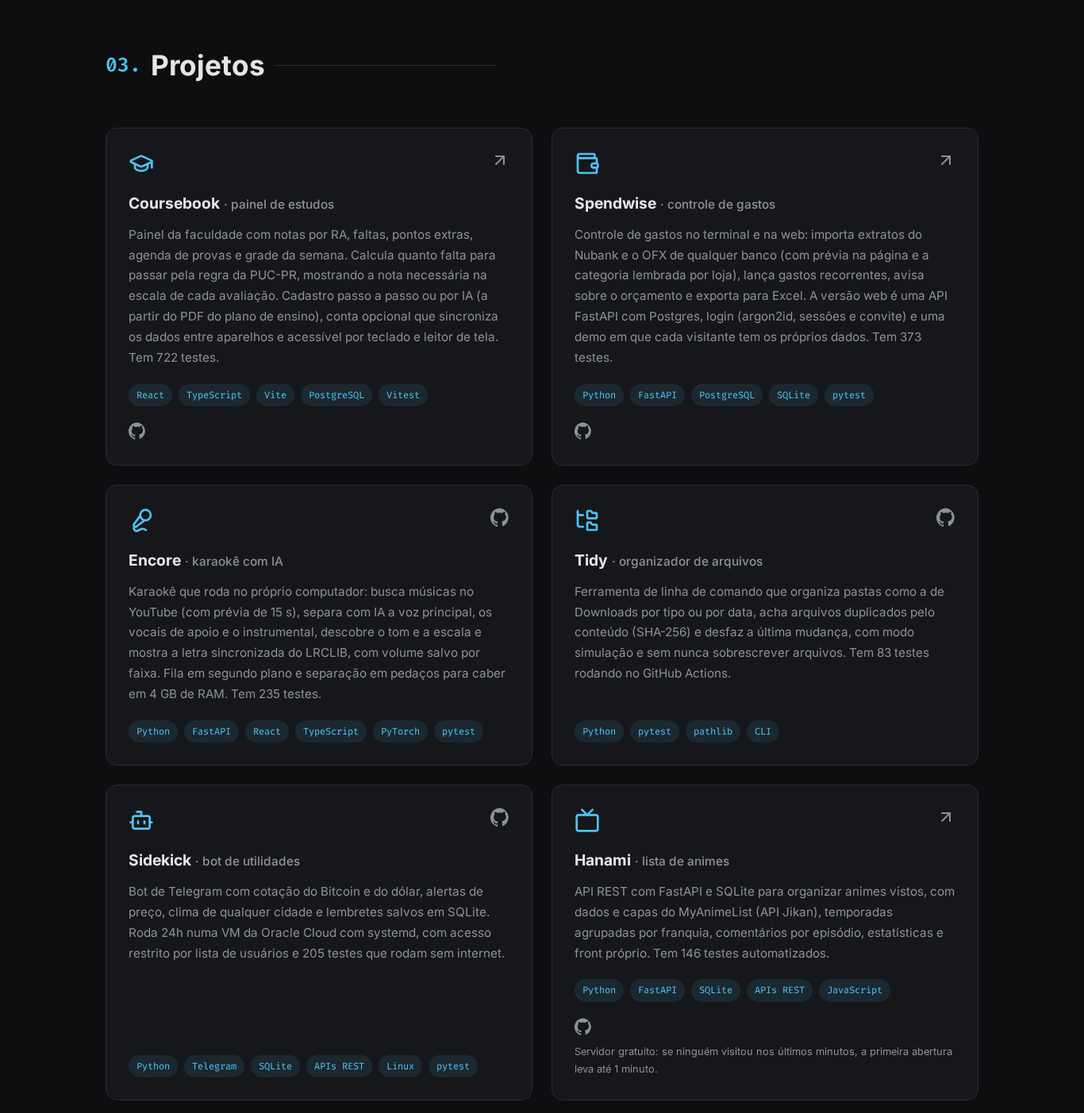
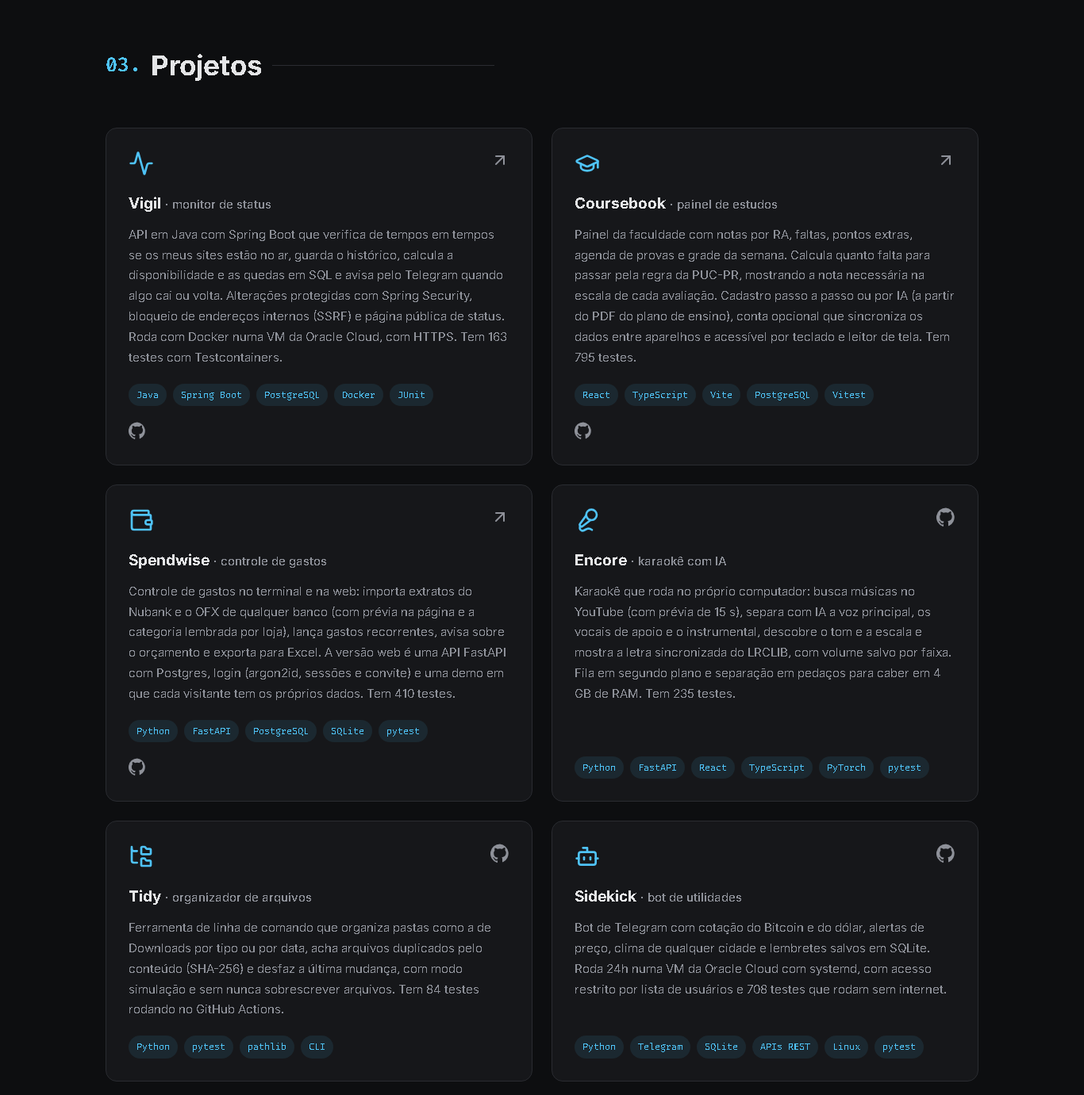
Adiciona o Vigil (Java, Spring Boot, Docker) e atualiza os números de testes

diff --git a/index.html b/index.html
@@ -173,6 +173,28 @@
         <div class="projects">
           <article class="project project--ao-vivo spot reveal">
             <div class="project__top">
+              <span class="project__icon"><svg xmlns="http://www.w3.org/2000/svg" viewBox="0 0 24 24" fill="none" stroke="currentColor" stroke-width="2" stroke-linecap="round" stroke-linejoin="round" class="icone" aria-hidden="true" focusable="false"><path d="M22 12h-2.48a2 2 0 0 0-1.93 1.46l-2.35 8.36a.25.25 0 0 1-.48 0L9.24 2.18a.25.25 0 0 0-.48 0l-2.35 8.36A2 2 0 0 1 4.49 12H2" /></svg></span>
+              <a class="project__link project__link--site" href="https://147-15-40-173.sslip.io" target="_blank" rel="noopener" aria-label="Ver a página de status do Vigil ao vivo">
+                <svg viewBox="0 0 24 24" aria-hidden="true"><path d="M7 7h10v10" /><path d="M7 17 17 7" /></svg>
+              </a>
+            </div>
+            <h3 class="project__title">Vigil <span class="project__apelido">· monitor de status</span></h3>
+            <p class="project__desc">
+              API em Java com Spring Boot que verifica de tempos em tempos se os meus sites estão no ar, guarda o
+              histórico, calcula a disponibilidade e as quedas em SQL e avisa pelo Telegram quando algo cai ou volta.
+              Alterações protegidas com Spring Security, bloqueio de endereços internos (SSRF) e página pública de
+              status. Roda com Docker numa VM da Oracle Cloud, com HTTPS. Tem 163 testes com Testcontainers.
+            </p>
+            <ul class="project__tags">
+              <li>Java</li><li>Spring Boot</li><li>PostgreSQL</li><li>Docker</li><li>JUnit</li>
+            </ul>
+            <a class="project__repo" href="https://github.com/Lakes777/vigil" target="_blank" rel="noopener" aria-label="Código do Vigil no GitHub">
+              <svg viewBox="0 0 24 24" aria-hidden="true"><path d="M12 .5a12 12 0 0 0-3.8 23.4c.6.1.8-.3.8-.6v-2c-3.3.7-4-1.6-4-1.6-.6-1.4-1.4-1.8-1.4-1.8-1-.7.1-.7.1-.7 1.2.1 1.8 1.2 1.8 1.2 1 1.8 2.8 1.3 3.5 1 0-.8.4-1.3.7-1.6-2.7-.3-5.5-1.3-5.5-6 0-1.2.5-2.3 1.3-3.1-.2-.4-.6-1.6 0-3.2 0 0 1-.3 3.3 1.2a11.5 11.5 0 0 1 6 0C17.3 4.7 18.3 5 18.3 5c.6 1.6.2 2.8.1 3.2.8.8 1.3 1.9 1.3 3.1 0 4.6-2.8 5.6-5.5 5.9.4.4.8 1.1.8 2.2v3.3c0 .3.2.7.8.6A12 12 0 0 0 12 .5Z"/></svg>
+            </a>
+          </article>
+
+          <article class="project project--ao-vivo spot reveal">
+            <div class="project__top">
               <span class="project__icon"><svg xmlns="http://www.w3.org/2000/svg" viewBox="0 0 24 24" fill="none" stroke="currentColor" stroke-width="2" stroke-linecap="round" stroke-linejoin="round" class="icone" aria-hidden="true" focusable="false"><path d="M21.42 10.922a1 1 0 0 0-.019-1.838L12.83 5.18a2 2 0 0 0-1.66 0L2.6 9.08a1 1 0 0 0 0 1.832l8.57 3.908a2 2 0 0 0 1.66 0z" /><path d="M22 10v6" /><path d="M6 12.5V16a6 3 0 0 0 12 0v-3.5" /></svg></span>
               <a class="project__link project__link--site" href="https://painel-estudos-cyan.vercel.app" target="_blank" rel="noopener" aria-label="Ver Coursebook ao vivo">
                 <svg viewBox="0 0 24 24" aria-hidden="true"><path d="M7 7h10v10" /><path d="M7 17 17 7" /></svg>
@@ -183,7 +205,7 @@
               Painel da faculdade com notas por RA, faltas, pontos extras, agenda de provas e grade da semana. Calcula quanto
               falta para passar pela regra da PUC-PR, mostrando a nota necessária na escala de cada avaliação.
               Cadastro passo a passo ou por IA (a partir do PDF do plano de ensino), conta opcional que sincroniza
-              os dados entre aparelhos e acessível por teclado e leitor de tela. Tem 722 testes.
+              os dados entre aparelhos e acessível por teclado e leitor de tela. Tem 795 testes.
             </p>
             <ul class="project__tags">
               <li>React</li><li>TypeScript</li><li>Vite</li><li>PostgreSQL</li><li>Vitest</li>
@@ -206,7 +228,7 @@
               (com prévia na página e a categoria lembrada por loja), lança gastos recorrentes, avisa sobre o
               orçamento e exporta para Excel.
               A versão web é uma API FastAPI com Postgres, login (argon2id, sessões e convite) e uma demo em
-              que cada visitante tem os próprios dados. Tem 373 testes.
+              que cada visitante tem os próprios dados. Tem 410 testes.
             </p>
             <ul class="project__tags">
               <li>Python</li><li>FastAPI</li><li>PostgreSQL</li><li>SQLite</li><li>pytest</li>
@@ -246,7 +268,7 @@
             <p class="project__desc">
               Ferramenta de linha de comando que organiza pastas como a de Downloads por tipo ou por data,
               acha arquivos duplicados pelo conteúdo (SHA-256) e desfaz a última mudança, com modo simulação e
-              sem nunca sobrescrever arquivos. Tem 83 testes rodando no GitHub Actions.
+              sem nunca sobrescrever arquivos. Tem 84 testes rodando no GitHub Actions.
             </p>
             <ul class="project__tags">
               <li>Python</li><li>pytest</li><li>pathlib</li><li>CLI</li>
@@ -264,7 +286,7 @@
             <p class="project__desc">
               Bot de Telegram com cotação do Bitcoin e do dólar, alertas de preço, clima de qualquer cidade e lembretes
               salvos em SQLite. Roda 24h numa VM da Oracle Cloud com systemd, com acesso restrito por lista de usuários
-              e 205 testes que rodam sem internet.
+              e 708 testes que rodam sem internet.
             </p>
             <ul class="project__tags">
               <li>Python</li><li>Telegram</li><li>SQLite</li><li>APIs REST</li><li>Linux</li><li>pytest</li>
@@ -282,7 +304,7 @@
             <p class="project__desc">
               API REST com FastAPI e SQLite para organizar animes vistos, com dados e capas do
               MyAnimeList (API Jikan), temporadas agrupadas por franquia, comentários por episódio,
-              estatísticas e front próprio. Tem 146 testes automatizados.
+              estatísticas e front próprio. Tem 216 testes automatizados.
             </p>
             <ul class="project__tags">
               <li>Python</li><li>FastAPI</li><li>SQLite</li><li>APIs REST</li><li>JavaScript</li>
@@ -366,6 +388,7 @@
             <h3>Linguagens</h3>
             <ul class="skills__list">
               <li><span class="skills__badge"><svg xmlns="http://www.w3.org/2000/svg" viewBox="0 0 24 24" fill="currentColor" class="icone" aria-hidden="true" focusable="false"><path d="M14.25.18l.9.2.73.26.59.3.45.32.34.34.25.34.16.33.1.3.04.26.02.2-.01.13V8.5l-.05.63-.13.55-.21.46-.26.38-.3.31-.33.25-.35.19-.35.14-.33.1-.3.07-.26.04-.21.02H8.77l-.69.05-.59.14-.5.22-.41.27-.33.32-.27.35-.2.36-.15.37-.1.35-.07.32-.04.27-.02.21v3.06H3.17l-.21-.03-.28-.07-.32-.12-.35-.18-.36-.26-.36-.36-.35-.46-.32-.59-.28-.73-.21-.88-.14-1.05-.05-1.23.06-1.22.16-1.04.24-.87.32-.71.36-.57.4-.44.42-.33.42-.24.4-.16.36-.1.32-.05.24-.01h.16l.06.01h8.16v-.83H6.18l-.01-2.75-.02-.37.05-.34.11-.31.17-.28.25-.26.31-.23.38-.2.44-.18.51-.15.58-.12.64-.1.71-.06.77-.04.84-.02 1.27.05zm-6.3 1.98l-.23.33-.08.41.08.41.23.34.33.22.41.09.41-.09.33-.22.23-.34.08-.41-.08-.41-.23-.33-.33-.22-.41-.09-.41.09zm13.09 3.95l.28.06.32.12.35.18.36.27.36.35.35.47.32.59.28.73.21.88.14 1.04.05 1.23-.06 1.23-.16 1.04-.24.86-.32.71-.36.57-.4.45-.42.33-.42.24-.4.16-.36.09-.32.05-.24.02-.16-.01h-8.22v.82h5.84l.01 2.76.02.36-.05.34-.11.31-.17.29-.25.25-.31.24-.38.2-.44.17-.51.15-.58.13-.64.09-.71.07-.77.04-.84.01-1.27-.04-1.07-.14-.9-.2-.73-.25-.59-.3-.45-.33-.34-.34-.25-.34-.16-.33-.1-.3-.04-.25-.02-.2.01-.13v-5.34l.05-.64.13-.54.21-.46.26-.38.3-.32.33-.24.35-.2.35-.14.33-.1.3-.06.26-.04.21-.02.13-.01h5.84l.69-.05.59-.14.5-.21.41-.28.33-.32.27-.35.2-.36.15-.36.1-.35.07-.32.04-.28.02-.21V6.07h2.09l.14.01zm-6.47 14.25l-.23.33-.08.41.08.41.23.33.33.23.41.08.41-.08.33-.23.23-.33.08-.41-.08-.41-.23-.33-.33-.23-.41-.08-.41.08z"/></svg></span>Python</li>
+              <li><span class="skills__badge"><svg xmlns="http://www.w3.org/2000/svg" viewBox="0 0 24 24" fill="currentColor" class="icone" aria-hidden="true" focusable="false"><path d="M11.915 0 11.7.215C9.515 2.4 7.47 6.39 6.046 10.483c-1.064 1.024-3.633 2.81-3.711 3.551-.093.87 1.746 2.611 1.55 3.235-.198.625-1.304 1.408-1.014 1.939.1.188.823.011 1.277-.491a13.389 13.389 0 0 0-.017 2.14c.076.906.27 1.668.643 2.232.372.563.956.911 1.667.911.397 0 .727-.114 1.024-.264.298-.149.571-.33.91-.5.68-.34 1.634-.666 3.53-.604 1.903.062 2.872.39 3.559.704.687.314 1.15.664 1.925.664.767 0 1.395-.336 1.807-.9.412-.563.631-1.33.72-2.24.06-.623.055-1.32 0-2.066.454.45 1.117.604 1.213.424.29-.53-.816-1.314-1.013-1.937-.198-.624 1.642-2.366 1.549-3.236-.08-.748-2.707-2.568-3.748-3.586C16.428 6.374 14.308 2.394 12.13.215zm.175 6.038a2.95 2.95 0 0 1 2.943 2.942 2.95 2.95 0 0 1-2.943 2.943A2.95 2.95 0 0 1 9.148 8.98a2.95 2.95 0 0 1 2.942-2.942zM8.685 7.983a3.515 3.515 0 0 0-.145.997c0 1.951 1.6 3.55 3.55 3.55 1.95 0 3.55-1.598 3.55-3.55 0-.329-.046-.648-.132-.951.334.095.64.208.915.336a42.699 42.699 0 0 1 2.042 5.829c.678 2.545 1.01 4.92.846 6.607-.082.844-.29 1.51-.606 1.94-.315.431-.713.651-1.315.651-.593 0-.932-.27-1.673-.61-.741-.338-1.825-.694-3.792-.758-1.974-.064-3.073.293-3.821.669-.375.188-.659.373-.911.5s-.466.2-.752.2c-.53 0-.876-.209-1.16-.64-.285-.43-.474-1.101-.545-1.948-.141-1.693.176-4.069.823-6.614a43.155 43.155 0 0 1 1.934-5.783c.348-.167.749-.31 1.192-.425zm-3.382 4.362a.216.216 0 0 1 .13.031c-.166.56-.323 1.116-.463 1.665a33.849 33.849 0 0 0-.547 2.555 3.9 3.9 0 0 0-.2-.39c-.58-1.012-.914-1.642-1.16-2.08.315-.24 1.679-1.755 2.24-1.781zm13.394.01c.562.027 1.926 1.543 2.24 1.783-.246.438-.58 1.068-1.16 2.08a4.428 4.428 0 0 0-.163.309 32.354 32.354 0 0 0-.562-2.49 40.579 40.579 0 0 0-.482-1.652.216.216 0 0 1 .127-.03z"/></svg></span>Java</li>
               <li><span class="skills__badge"><svg xmlns="http://www.w3.org/2000/svg" viewBox="0 0 24 24" fill="currentColor" class="icone" aria-hidden="true" focusable="false"><path d="M0 0h24v24H0V0zm22.034 18.276c-.175-1.095-.888-2.015-3.003-2.873-.736-.345-1.554-.585-1.797-1.14-.091-.33-.105-.51-.046-.705.15-.646.915-.84 1.515-.66.39.12.75.42.976.9 1.034-.676 1.034-.676 1.755-1.125-.27-.42-.404-.601-.586-.78-.63-.705-1.469-1.065-2.834-1.034l-.705.089c-.676.165-1.32.525-1.71 1.005-1.14 1.291-.811 3.541.569 4.471 1.365 1.02 3.361 1.244 3.616 2.205.24 1.17-.87 1.545-1.966 1.41-.811-.18-1.26-.586-1.755-1.336l-1.83 1.051c.21.48.45.689.81 1.109 1.74 1.756 6.09 1.666 6.871-1.004.029-.09.24-.705.074-1.65l.046.067zm-8.983-7.245h-2.248c0 1.938-.009 3.864-.009 5.805 0 1.232.063 2.363-.138 2.711-.33.689-1.18.601-1.566.48-.396-.196-.597-.466-.83-.855-.063-.105-.11-.196-.127-.196l-1.825 1.125c.305.63.75 1.172 1.324 1.517.855.51 2.004.675 3.207.405.783-.226 1.458-.691 1.811-1.411.51-.93.402-2.07.397-3.346.012-2.054 0-4.109 0-6.179l.004-.056z"/></svg></span>JavaScript</li>
               <li><span class="skills__badge"><svg xmlns="http://www.w3.org/2000/svg" viewBox="0 0 24 24" fill="currentColor" class="icone" aria-hidden="true" focusable="false"><path d="M1.125 0C.502 0 0 .502 0 1.125v21.75C0 23.498.502 24 1.125 24h21.75c.623 0 1.125-.502 1.125-1.125V1.125C24 .502 23.498 0 22.875 0zm17.363 9.75c.612 0 1.154.037 1.627.111a6.38 6.38 0 0 1 1.306.34v2.458a3.95 3.95 0 0 0-.643-.361 5.093 5.093 0 0 0-.717-.26 5.453 5.453 0 0 0-1.426-.2c-.3 0-.573.028-.819.086a2.1 2.1 0 0 0-.623.242c-.17.104-.3.229-.393.374a.888.888 0 0 0-.14.49c0 .196.053.373.156.529.104.156.252.304.443.444s.423.276.696.41c.273.135.582.274.926.416.47.197.892.407 1.266.628.374.222.695.473.963.753.268.279.472.598.614.957.142.359.214.776.214 1.253 0 .657-.125 1.21-.373 1.656a3.033 3.033 0 0 1-1.012 1.085 4.38 4.38 0 0 1-1.487.596c-.566.12-1.163.18-1.79.18a9.916 9.916 0 0 1-1.84-.164 5.544 5.544 0 0 1-1.512-.493v-2.63a5.033 5.033 0 0 0 3.237 1.2c.333 0 .624-.03.872-.09.249-.06.456-.144.623-.25.166-.108.29-.234.373-.38a1.023 1.023 0 0 0-.074-1.089 2.12 2.12 0 0 0-.537-.5 5.597 5.597 0 0 0-.807-.444 27.72 27.72 0 0 0-1.007-.436c-.918-.383-1.602-.852-2.053-1.405-.45-.553-.676-1.222-.676-2.005 0-.614.123-1.141.369-1.582.246-.441.58-.804 1.004-1.089a4.494 4.494 0 0 1 1.47-.629 7.536 7.536 0 0 1 1.77-.201zm-15.113.188h9.563v2.166H9.506v9.646H6.789v-9.646H3.375z"/></svg></span>TypeScript</li>
               <li><span class="skills__badge"><svg xmlns="http://www.w3.org/2000/svg" viewBox="0 0 24 24" fill="currentColor" class="icone" aria-hidden="true" focusable="false"><path d="M7.01 10.207h-.944l-.515 2.648h.838c.556 0 .97-.105 1.242-.314.272-.21.455-.559.55-1.049.092-.47.05-.802-.124-.995-.175-.193-.523-.29-1.047-.29zM12 5.688C5.373 5.688 0 8.514 0 12s5.373 6.313 12 6.313S24 15.486 24 12c0-3.486-5.373-6.312-12-6.312zm-3.26 7.451c-.261.25-.575.438-.917.551-.336.108-.765.164-1.285.164H5.357l-.327 1.681H3.652l1.23-6.326h2.65c.797 0 1.378.209 1.744.628.366.418.476 1.002.33 1.752a2.836 2.836 0 0 1-.305.847c-.143.255-.33.49-.561.703zm4.024.715l.543-2.799c.063-.318.039-.536-.068-.651-.107-.116-.336-.174-.687-.174H11.46l-.704 3.625H9.388l1.23-6.327h1.367l-.327 1.682h1.218c.767 0 1.295.134 1.586.401s.378.7.263 1.299l-.572 2.944h-1.389zm7.597-2.265a2.782 2.782 0 0 1-.305.847c-.143.255-.33.49-.561.703a2.44 2.44 0 0 1-.917.551c-.336.108-.765.164-1.286.164h-1.18l-.327 1.682h-1.378l1.23-6.326h2.649c.797 0 1.378.209 1.744.628.366.417.477 1.001.331 1.751zM17.766 10.207h-.943l-.516 2.648h.838c.557 0 .971-.105 1.242-.314.272-.21.455-.559.551-1.049.092-.47.049-.802-.125-.995s-.524-.29-1.047-.29z"/></svg></span>PHP</li>
@@ -381,7 +404,9 @@
               <li><span class="skills__badge"><svg xmlns="http://www.w3.org/2000/svg" viewBox="0 0 24 24" fill="currentColor" class="icone" aria-hidden="true" focusable="false"><path d="M21.678.521c-1.032-.92-2.28-.55-3.513.544a8.71 8.71 0 0 0-.547.535c-2.109 2.237-4.066 6.38-4.674 9.544.237.48.422 1.093.544 1.561a13.044 13.044 0 0 1 .164.703s-.019-.071-.096-.296l-.05-.146a1.689 1.689 0 0 0-.033-.08c-.138-.32-.518-.995-.686-1.289-.143.423-.27.818-.376 1.176.484.884.778 2.4.778 2.4s-.025-.099-.147-.442c-.107-.303-.644-1.244-.772-1.464-.217.804-.304 1.346-.226 1.478.152.256.296.698.422 1.186.286 1.1.485 2.44.485 2.44l.017.224a22.41 22.41 0 0 0 .056 2.748c.095 1.146.273 2.13.5 2.657l.155-.084c-.334-1.038-.47-2.399-.41-3.967.09-2.398.642-5.29 1.661-8.304 1.723-4.55 4.113-8.201 6.3-9.945-1.993 1.8-4.692 7.63-5.5 9.788-.904 2.416-1.545 4.684-1.931 6.857.666-2.037 2.821-2.912 2.821-2.912s1.057-1.304 2.292-3.166c-.74.169-1.955.458-2.362.629-.6.251-.762.337-.762.337s1.945-1.184 3.613-1.72C21.695 7.9 24.195 2.767 21.678.521m-18.573.543A1.842 1.842 0 0 0 1.27 2.9v16.608a1.84 1.84 0 0 0 1.835 1.834h9.418a22.953 22.953 0 0 1-.052-2.707c-.006-.062-.011-.141-.016-.2a27.01 27.01 0 0 0-.473-2.378c-.121-.47-.275-.898-.369-1.057-.116-.197-.098-.31-.097-.432 0-.12.015-.245.037-.386a9.98 9.98 0 0 1 .234-1.045l.217-.028c-.017-.035-.014-.065-.031-.097l-.041-.381a32.8 32.8 0 0 1 .382-1.194l.2-.019c-.008-.016-.01-.038-.018-.053l-.043-.316c.63-3.28 2.587-7.443 4.8-9.791.066-.069.133-.128.198-.194Z"/></svg></span>SQLite</li>
               <li><span class="skills__badge"><svg xmlns="http://www.w3.org/2000/svg" viewBox="0 0 24 24" fill="currentColor" class="icone" aria-hidden="true" focusable="false"><path d="M23.5594 14.7228a.5269.5269 0 0 0-.0563-.1191c-.139-.2632-.4768-.3418-1.0074-.2321-1.6533.3411-2.2935.1312-2.5256-.0191 1.342-2.0482 2.445-4.522 3.0411-6.8297.2714-1.0507.7982-3.5237.1222-4.7316a1.5641 1.5641 0 0 0-.1509-.235C21.6931.9086 19.8007.0248 17.5099.0005c-1.4947-.0158-2.7705.3461-3.1161.4794a9.449 9.449 0 0 0-.5159-.0816 8.044 8.044 0 0 0-1.3114-.1278c-1.1822-.0184-2.2038.2642-3.0498.8406-.8573-.3211-4.7888-1.645-7.2219.0788C.9359 2.1526.3086 3.8733.4302 6.3043c.0409.818.5069 3.334 1.2423 5.7436.4598 1.5065.9387 2.7019 1.4334 3.582.553.9942 1.1259 1.5933 1.7143 1.7895.4474.1491 1.1327.1441 1.8581-.7279.8012-.9635 1.5903-1.8258 1.9446-2.2069.4351.2355.9064.3625 1.39.3772a.0569.0569 0 0 0 .0004.0041 11.0312 11.0312 0 0 0-.2472.3054c-.3389.4302-.4094.5197-1.5002.7443-.3102.064-1.1344.2339-1.1464.8115-.0025.1224.0329.2309.0919.3268.2269.4231.9216.6097 1.015.6331 1.3345.3335 2.5044.092 3.3714-.6787-.017 2.231.0775 4.4174.3454 5.0874.2212.5529.7618 1.9045 2.4692 1.9043.2505 0 .5263-.0291.8296-.0941 1.7819-.3821 2.5557-1.1696 2.855-2.9059.1503-.8707.4016-2.8753.5388-4.1012.0169-.0703.0357-.1207.057-.1362.0007-.0005.0697-.0471.4272.0307a.3673.3673 0 0 0 .0443.0068l.2539.0223.0149.001c.8468.0384 1.9114-.1426 2.5312-.4308.6438-.2988 1.8057-1.0323 1.5951-1.6698zM2.371 11.8765c-.7435-2.4358-1.1779-4.8851-1.2123-5.5719-.1086-2.1714.4171-3.6829 1.5623-4.4927 1.8367-1.2986 4.8398-.5408 6.108-.13-.0032.0032-.0066.0061-.0098.0094-2.0238 2.044-1.9758 5.536-1.9708 5.7495-.0002.0823.0066.1989.0162.3593.0348.5873.0996 1.6804-.0735 2.9184-.1609 1.1504.1937 2.2764.9728 3.0892.0806.0841.1648.1631.2518.2374-.3468.3714-1.1004 1.1926-1.9025 2.1576-.5677.6825-.9597.5517-1.0886.5087-.3919-.1307-.813-.5871-1.2381-1.3223-.4796-.839-.9635-2.0317-1.4155-3.5126zm6.0072 5.0871c-.1711-.0428-.3271-.1132-.4322-.1772.0889-.0394.2374-.0902.4833-.1409 1.2833-.2641 1.4815-.4506 1.9143-1.0002.0992-.126.2116-.2687.3673-.4426a.3549.3549 0 0 0 .0737-.1298c.1708-.1513.2724-.1099.4369-.0417.156.0646.3078.26.3695.4752.0291.1016.0619.2945-.0452.4444-.9043 1.2658-2.2216 1.2494-3.1676 1.0128zm2.094-3.988-.0525.141c-.133.3566-.2567.6881-.3334 1.003-.6674-.0021-1.3168-.2872-1.8105-.8024-.6279-.6551-.9131-1.5664-.7825-2.5004.1828-1.3079.1153-2.4468.079-3.0586-.005-.0857-.0095-.1607-.0122-.2199.2957-.2621 1.6659-.9962 2.6429-.7724.4459.1022.7176.4057.8305.928.5846 2.7038.0774 3.8307-.3302 4.7363-.084.1866-.1633.3629-.2311.5454zm7.3637 4.5725c-.0169.1768-.0358.376-.0618.5959l-.146.4383a.3547.3547 0 0 0-.0182.1077c-.0059.4747-.054.6489-.115.8693-.0634.2292-.1353.4891-.1794 1.0575-.11 1.4143-.8782 2.2267-2.4172 2.5565-1.5155.3251-1.7843-.4968-2.0212-1.2217a6.5824 6.5824 0 0 0-.0769-.2266c-.2154-.5858-.1911-1.4119-.1574-2.5551.0165-.5612-.0249-1.9013-.3302-2.6462.0044-.2932.0106-.5909.019-.8918a.3529.3529 0 0 0-.0153-.1126 1.4927 1.4927 0 0 0-.0439-.208c-.1226-.4283-.4213-.7866-.7797-.9351-.1424-.059-.4038-.1672-.7178-.0869.067-.276.1831-.5875.309-.9249l.0529-.142c.0595-.16.134-.3257.213-.5012.4265-.9476 1.0106-2.2453.3766-5.1772-.2374-1.0981-1.0304-1.6343-2.2324-1.5098-.7207.0746-1.3799.3654-1.7088.5321a5.6716 5.6716 0 0 0-.1958.1041c.0918-1.1064.4386-3.1741 1.7357-4.4823a4.0306 4.0306 0 0 1 .3033-.276.3532.3532 0 0 0 .1447-.0644c.7524-.5706 1.6945-.8506 2.802-.8325.4091.0067.8017.0339 1.1742.081 1.939.3544 3.2439 1.4468 4.0359 2.3827.8143.9623 1.2552 1.9315 1.4312 2.4543-1.3232-.1346-2.2234.1268-2.6797.779-.9926 1.4189.543 4.1729 1.2811 5.4964.1353.2426.2522.4522.2889.5413.2403.5825.5515.9713.7787 1.2552.0696.087.1372.1714.1885.245-.4008.1155-1.1208.3825-1.0552 1.717-.0123.1563-.0423.4469-.0834.8148-.0461.2077-.0702.4603-.0994.7662zm.8905-1.6211c-.0405-.8316.2691-.9185.5967-1.0105a2.8566 2.8566 0 0 0 .135-.0406 1.202 1.202 0 0 0 .1342.103c.5703.3765 1.5823.4213 3.0068.1344-.2016.1769-.5189.3994-.9533.6011-.4098.1903-1.0957.333-1.7473.3636-.7197.0336-1.0859-.0807-1.1721-.151zm.5695-9.2712c-.0059.3508-.0542.6692-.1054 1.0017-.055.3576-.112.7274-.1264 1.1762-.0142.4368.0404.8909.0932 1.3301.1066.887.216 1.8003-.2075 2.7014a3.5272 3.5272 0 0 1-.1876-.3856c-.0527-.1276-.1669-.3326-.3251-.6162-.6156-1.1041-2.0574-3.6896-1.3193-4.7446.3795-.5427 1.3408-.5661 2.1781-.463zm.2284 7.0137a12.3762 12.3762 0 0 0-.0853-.1074l-.0355-.0444c.7262-1.1995.5842-2.3862.4578-3.4385-.0519-.4318-.1009-.8396-.0885-1.2226.0129-.4061.0666-.7543.1185-1.0911.0639-.415.1288-.8443.1109-1.3505.0134-.0531.0188-.1158.0118-.1902-.0457-.4855-.5999-1.938-1.7294-3.253-.6076-.7073-1.4896-1.4972-2.6889-2.0395.5251-.1066 1.2328-.2035 2.0244-.1859 2.0515.0456 3.6746.8135 4.8242 2.2824a.908.908 0 0 1 .0667.1002c.7231 1.3556-.2762 6.2751-2.9867 10.5405zm-8.8166-6.1162c-.025.1794-.3089.4225-.6211.4225a.5821.5821 0 0 1-.0809-.0056c-.1873-.026-.3765-.144-.5059-.3156-.0458-.0605-.1203-.178-.1055-.2844.0055-.0401.0261-.0985.0925-.1488.1182-.0894.3518-.1226.6096-.0867.3163.0441.6426.1938.6113.4186zm7.9305-.4114c.0111.0792-.049.201-.1531.3102-.0683.0717-.212.1961-.4079.2232a.5456.5456 0 0 1-.075.0052c-.2935 0-.5414-.2344-.5607-.3717-.024-.1765.2641-.3106.5611-.352.297-.0414.6111.0088.6356.1851z"/></svg></span>PostgreSQL</li>
               <li><span class="skills__badge"><svg xmlns="http://www.w3.org/2000/svg" viewBox="0 0 24 24" fill="currentColor" class="icone" aria-hidden="true" focusable="false"><path d="M12 .0387C5.3729.0384.0003 5.3931 0 11.9988c-.001 6.6066 5.372 11.9628 12 11.9625 6.628.0003 12.001-5.3559 12-11.9625-.0003-6.6057-5.3729-11.9604-12-11.96m-.829 5.4153h7.55l-7.5805 5.3284h5.1828L5.279 18.5436q2.9466-6.5444 5.892-13.0896"/></svg></span>FastAPI</li>
+              <li><span class="skills__badge"><svg xmlns="http://www.w3.org/2000/svg" viewBox="0 0 24 24" fill="currentColor" class="icone" aria-hidden="true" focusable="false"><path d="M21.8537 1.4158a10.4504 10.4504 0 0 1-1.284 2.2471A11.9666 11.9666 0 1 0 3.8518 20.7757l.4445.3951a11.9543 11.9543 0 0 0 19.6316-8.2971c.3457-3.0126-.568-6.8649-2.0743-11.458zM5.5805 20.8745a1.0174 1.0174 0 1 1-.1482-1.4323 1.0396 1.0396 0 0 1 .1482 1.4323zm16.1991-3.5806c-2.9385 3.9263-9.2601 2.5928-13.2852 2.7904 0 0-.7161.0494-1.4323.1481 0 0 .2717-.1234.6174-.2469 2.8398-.9877 4.1732-1.1853 5.9018-2.0743 3.2349-1.6545 6.4698-5.2844 7.1118-9.0379-1.2347 3.6053-4.9881 6.7167-8.3959 7.9761-2.3459.8643-6.5685 1.7039-6.5685 1.7039l-.1729-.0988c-2.8645-1.4076-2.9632-7.6304 2.2718-9.6306 2.2966-.889 4.4696-.395 6.9637-.9877 2.6422-.6174 5.7043-2.5929 6.939-5.1857 1.3828 4.1732 3.062 10.643.0493 14.6434z"/></svg></span>Spring Boot</li>
               <li><span class="skills__badge"><svg xmlns="http://www.w3.org/2000/svg" viewBox="0 0 24 24" fill="currentColor" class="icone" aria-hidden="true" focusable="false"><path d="M14.23 12.004a2.236 2.236 0 0 1-2.235 2.236 2.236 2.236 0 0 1-2.236-2.236 2.236 2.236 0 0 1 2.235-2.236 2.236 2.236 0 0 1 2.236 2.236zm2.648-10.69c-1.346 0-3.107.96-4.888 2.622-1.78-1.653-3.542-2.602-4.887-2.602-.41 0-.783.093-1.106.278-1.375.793-1.683 3.264-.973 6.365C1.98 8.917 0 10.42 0 12.004c0 1.59 1.99 3.097 5.043 4.03-.704 3.113-.39 5.588.988 6.38.32.187.69.275 1.102.275 1.345 0 3.107-.96 4.888-2.624 1.78 1.654 3.542 2.603 4.887 2.603.41 0 .783-.09 1.106-.275 1.374-.792 1.683-3.263.973-6.365C22.02 15.096 24 13.59 24 12.004c0-1.59-1.99-3.097-5.043-4.032.704-3.11.39-5.587-.988-6.38-.318-.184-.688-.277-1.092-.278zm-.005 1.09v.006c.225 0 .406.044.558.127.666.382.955 1.835.73 3.704-.054.46-.142.945-.25 1.44-.96-.236-2.006-.417-3.107-.534-.66-.905-1.345-1.727-2.035-2.447 1.592-1.48 3.087-2.292 4.105-2.295zm-9.77.02c1.012 0 2.514.808 4.11 2.28-.686.72-1.37 1.537-2.02 2.442-1.107.117-2.154.298-3.113.538-.112-.49-.195-.964-.254-1.42-.23-1.868.054-3.32.714-3.707.19-.09.4-.127.563-.132zm4.882 3.05c.455.468.91.992 1.36 1.564-.44-.02-.89-.034-1.345-.034-.46 0-.915.01-1.36.034.44-.572.895-1.096 1.345-1.565zM12 8.1c.74 0 1.477.034 2.202.093.406.582.802 1.203 1.183 1.86.372.64.71 1.29 1.018 1.946-.308.655-.646 1.31-1.013 1.95-.38.66-.773 1.288-1.18 1.87-.728.063-1.466.098-2.21.098-.74 0-1.477-.035-2.202-.093-.406-.582-.802-1.204-1.183-1.86-.372-.64-.71-1.29-1.018-1.946.303-.657.646-1.313 1.013-1.954.38-.66.773-1.286 1.18-1.868.728-.064 1.466-.098 2.21-.098zm-3.635.254c-.24.377-.48.763-.704 1.16-.225.39-.435.782-.635 1.174-.265-.656-.49-1.31-.676-1.947.64-.15 1.315-.283 2.015-.386zm7.26 0c.695.103 1.365.23 2.006.387-.18.632-.405 1.282-.66 1.933-.2-.39-.41-.783-.64-1.174-.225-.392-.465-.774-.705-1.146zm3.063.675c.484.15.944.317 1.375.498 1.732.74 2.852 1.708 2.852 2.476-.005.768-1.125 1.74-2.857 2.475-.42.18-.88.342-1.355.493-.28-.958-.646-1.956-1.1-2.98.45-1.017.81-2.01 1.085-2.964zm-13.395.004c.278.96.645 1.957 1.1 2.98-.45 1.017-.812 2.01-1.086 2.964-.484-.15-.944-.318-1.37-.5-1.732-.737-2.852-1.706-2.852-2.474 0-.768 1.12-1.742 2.852-2.476.42-.18.88-.342 1.356-.494zm11.678 4.28c.265.657.49 1.312.676 1.948-.64.157-1.316.29-2.016.39.24-.375.48-.762.705-1.158.225-.39.435-.788.636-1.18zm-9.945.02c.2.392.41.783.64 1.175.23.39.465.772.705 1.143-.695-.102-1.365-.23-2.006-.386.18-.63.406-1.282.66-1.933zM17.92 16.32c.112.493.2.968.254 1.423.23 1.868-.054 3.32-.714 3.708-.147.09-.338.128-.563.128-1.012 0-2.514-.807-4.11-2.28.686-.72 1.37-1.536 2.02-2.44 1.107-.118 2.154-.3 3.113-.54zm-11.83.01c.96.234 2.006.415 3.107.532.66.905 1.345 1.727 2.035 2.446-1.595 1.483-3.092 2.295-4.11 2.295-.22-.005-.406-.05-.553-.132-.666-.38-.955-1.834-.73-3.703.054-.46.142-.944.25-1.438zm4.56.64c.44.02.89.034 1.345.034.46 0 .915-.01 1.36-.034-.44.572-.895 1.095-1.345 1.565-.455-.47-.91-.993-1.36-1.565z"/></svg></span>React</li>
+              <li><span class="skills__badge"><svg xmlns="http://www.w3.org/2000/svg" viewBox="0 0 24 24" fill="currentColor" class="icone" aria-hidden="true" focusable="false"><path d="M13.983 11.078h2.119a.186.186 0 00.186-.185V9.006a.186.186 0 00-.186-.186h-2.119a.185.185 0 00-.185.185v1.888c0 .102.083.185.185.185m-2.954-5.43h2.118a.186.186 0 00.186-.186V3.574a.186.186 0 00-.186-.185h-2.118a.185.185 0 00-.185.185v1.888c0 .102.082.185.185.185m0 2.716h2.118a.187.187 0 00.186-.186V6.29a.186.186 0 00-.186-.185h-2.118a.185.185 0 00-.185.185v1.887c0 .102.082.185.185.186m-2.93 0h2.12a.186.186 0 00.184-.186V6.29a.185.185 0 00-.185-.185H8.1a.185.185 0 00-.185.185v1.887c0 .102.083.185.185.186m-2.964 0h2.119a.186.186 0 00.185-.186V6.29a.185.185 0 00-.185-.185H5.136a.186.186 0 00-.186.185v1.887c0 .102.084.185.186.186m5.893 2.715h2.118a.186.186 0 00.186-.185V9.006a.186.186 0 00-.186-.186h-2.118a.185.185 0 00-.185.185v1.888c0 .102.082.185.185.185m-2.93 0h2.12a.185.185 0 00.184-.185V9.006a.185.185 0 00-.184-.186h-2.12a.185.185 0 00-.184.185v1.888c0 .102.083.185.185.185m-2.964 0h2.119a.185.185 0 00.185-.185V9.006a.185.185 0 00-.184-.186h-2.12a.186.186 0 00-.186.186v1.887c0 .102.084.185.186.185m-2.92 0h2.12a.185.185 0 00.184-.185V9.006a.185.185 0 00-.184-.186h-2.12a.185.185 0 00-.184.185v1.888c0 .102.082.185.185.185M23.763 9.89c-.065-.051-.672-.51-1.954-.51-.338.001-.676.03-1.01.087-.248-1.7-1.653-2.53-1.716-2.566l-.344-.199-.226.327c-.284.438-.49.922-.612 1.43-.23.97-.09 1.882.403 2.661-.595.332-1.55.413-1.744.42H.751a.751.751 0 00-.75.748 11.376 11.376 0 00.692 4.062c.545 1.428 1.355 2.48 2.41 3.124 1.18.723 3.1 1.137 5.275 1.137.983.003 1.963-.086 2.93-.266a12.248 12.248 0 003.823-1.389c.98-.567 1.86-1.288 2.61-2.136 1.252-1.418 1.998-2.997 2.553-4.4h.221c1.372 0 2.215-.549 2.68-1.009.309-.293.55-.65.707-1.046l.098-.288Z"/></svg></span>Docker</li>
               <li><span class="skills__badge"><svg xmlns="http://www.w3.org/2000/svg" viewBox="0 0 24 24" fill="currentColor" class="icone" aria-hidden="true" focusable="false"><path d="M13.09 23.549a1.54 1.54 0 0 1-2.18 0L.451 13.089a1.54 1.54 0 0 1 0-2.179l7.191-7.19 2.733 2.733a1.85 1.85 0 0 0 .964 2.326v6.66a1.849 1.849 0 1 0 1.54 0V8.957l2.508 2.508a1.85 1.85 0 1 0 1.09-1.09l-2.634-2.634a1.85 1.85 0 0 0-2.378-2.377L8.73 2.63 10.91.451a1.54 1.54 0 0 1 2.179 0l10.459 10.46a1.54 1.54 0 0 1 0 2.179z"/></svg></span>Git</li>
               <li><span class="skills__badge"><svg xmlns="http://www.w3.org/2000/svg" viewBox="0 0 24 24" fill="currentColor" class="icone" aria-hidden="true" focusable="false"><path d="M12 .297c-6.63 0-12 5.373-12 12 0 5.303 3.438 9.8 8.205 11.385.6.113.82-.258.82-.577 0-.285-.01-1.04-.015-2.04-3.338.724-4.042-1.61-4.042-1.61C4.422 18.07 3.633 17.7 3.633 17.7c-1.087-.744.084-.729.084-.729 1.205.084 1.838 1.236 1.838 1.236 1.07 1.835 2.809 1.305 3.495.998.108-.776.417-1.305.76-1.605-2.665-.3-5.466-1.332-5.466-5.93 0-1.31.465-2.38 1.235-3.22-.135-.303-.54-1.523.105-3.176 0 0 1.005-.322 3.3 1.23.96-.267 1.98-.399 3-.405 1.02.006 2.04.138 3 .405 2.28-1.552 3.285-1.23 3.285-1.23.645 1.653.24 2.873.12 3.176.765.84 1.23 1.91 1.23 3.22 0 4.61-2.805 5.625-5.475 5.92.42.36.81 1.096.81 2.22 0 1.606-.015 2.896-.015 3.286 0 .315.21.69.825.57C20.565 22.092 24 17.592 24 12.297c0-6.627-5.373-12-12-12"/></svg></span>GitHub</li>
               <li><span class="skills__badge"><svg xmlns="http://www.w3.org/2000/svg" viewBox="0 0 24 24" fill="none" stroke="currentColor" stroke-width="2" stroke-linecap="round" stroke-linejoin="round" class="icone" aria-hidden="true" focusable="false"><path d="m18 16 4-4-4-4" /><path d="m6 8-4 4 4 4" /><path d="m14.5 4-5 16" /></svg></span>VS Code</li>

diff --git a/README.md b/README.md
@@ -12,7 +12,7 @@ Meu site pessoal, feito do zero com **HTML, CSS e JavaScript puros** e publicado
 
 <img src="assets/preview.png" alt="Prévia do portfólio" width="85%"/>
 
-<img src="assets/projetos.png" alt="Seção Projetos do portfólio: cards do Coursebook, Spendwise, Encore, Tidy, Sidekick e Hanami" width="85%"/>
+<img src="assets/projetos.png" alt="Seção Projetos do portfólio: cards do Vigil, Coursebook, Spendwise, Encore, Tidy e Sidekick" width="85%"/>
 
 </div>
 
